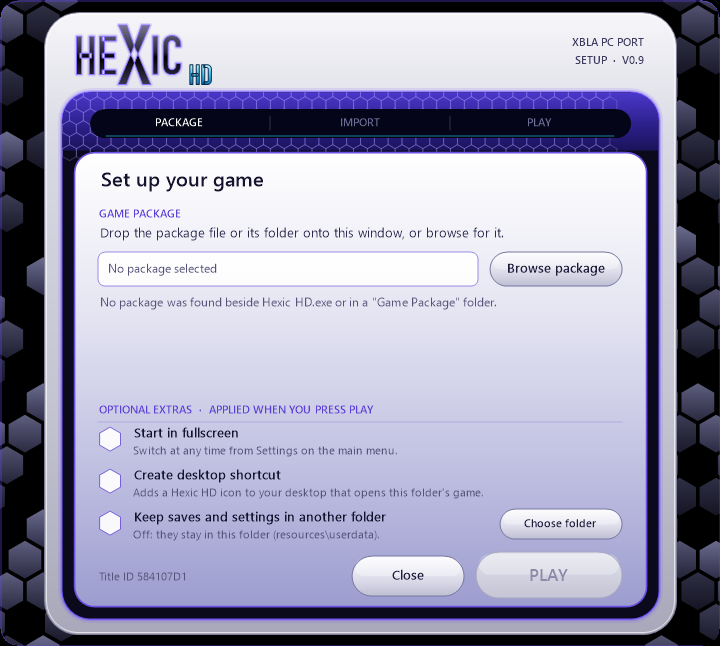
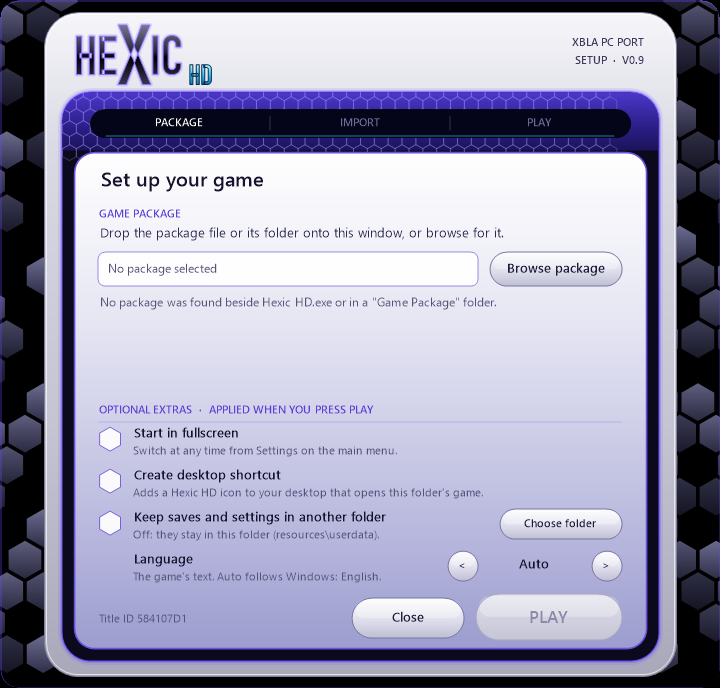
Setup: choose the language
A Language row (< and >) under the extras, the same list as Settings > Language, written to hexic_language in hexic_hd.toml on Play; Auto shows what Windows picks. Window 646 -> 688 px tall. Unattended: --language <code>. Setup screenshots retaken.

diff --git a/packaging/launcher/setup_window.cpp b/packaging/launcher/setup_window.cpp
@@ -36,24 +36,25 @@ namespace {
 using namespace Gdiplus;
 
 // ------------------------------------------------------------- layout --
-constexpr float kW = 720, kH = 646;
+constexpr float kW = 720, kH = 688;
 constexpr float kUiScale = 1.0f;
 
 struct Box {
   float x, y, w, h, r;
 };
-constexpr Box kBezel = {44, 12, 632, 622, 34};
-constexpr Box kCard = {62, 92, 596, 526, 28};
+constexpr Box kBezel = {44, 12, 632, 664, 34};
+constexpr Box kCard = {62, 92, 596, 568, 28};
 constexpr Box kPill = {90, 109, 540, 28, 14};
-constexpr Box kPanel = {74, 152, 572, 454, 20};
+constexpr Box kPanel = {74, 152, 572, 496, 20};
 constexpr Box kField = {98, 252, 380, 34, 7};
 constexpr Box kBar = {98, 356, 524, 12, 6};
 constexpr float kRowsY = 250, kRowPitch = 30;  // candidate rows when several packages are found
 constexpr int kMaxRows = 4;
 constexpr float kExtrasY = 402, kExtraFirst = 426, kExtraPitch = 42;
 constexpr float kSavesY = kExtraFirst + 2 * kExtraPitch;  // the saves-folder row, after the two extras
+constexpr float kLanguageY = kSavesY + kExtraPitch;      // the game's text language, last
 
-enum Control { kNone = -1, kBrowse, kLeft, kPlay, kExtra0, kExtra1, kSaves, kSavesBrowse, kRow0 };
+enum Control { kNone = -1, kBrowse, kLeft, kPlay, kExtra0, kExtra1, kSaves, kSavesBrowse, kLanguagePrev, kLanguageNext, kRow0 };
 
 enum class Mode { Idle, Choosing, Importing, Ready };
 
@@ -232,6 +233,8 @@ class SetupWindow {
   Extras want_, was_;
   // The saves folder (empty: resources\userdata), applied on Play like the extras.
   fs::path want_saves_, was_saves_;
+  // The game's text language (LanguageName() indices, 0 Auto), applied on Play.
+  int want_language_ = 0, was_language_ = 0;
   Control hover_ = kNone, pressed_ = kNone;
   bool tracking_ = false;
   std::atomic<bool> cancel_{false};
@@ -438,10 +441,12 @@ void SetupWindow::BuildBackdrop() {
 RectL SetupWindow::ControlRect(Control id) const {
   switch (id) {
     case kBrowse: return {490, 252, 132, 34};
-    case kLeft: return {352, 556, 112, 40};
-    case kPlay: return {476, 552, 146, 46};
+    case kLeft: return {352, 598, 112, 40};
+    case kPlay: return {476, 594, 146, 46};
     case kSaves: return {98, kSavesY - 6, 524, kExtraPitch - 2};
     case kSavesBrowse: return {500, kSavesY - 1, 122, 30};
+    case kLanguagePrev: return {448, kLanguageY - 1, 30, 30};
+    case kLanguageNext: return {592, kLanguageY - 1, 30, 30};
     case kExtra0:
     case kExtra1: return {98, kExtraFirst + (id - kExtra0) * kExtraPitch - 6, 524, kExtraPitch - 2};
     default: {
@@ -459,7 +464,9 @@ bool SetupWindow::Enabled(Control id) const {
     case kLeft: return !(mode_ == Mode::Importing && cancel_.load());
     case kPlay: return mode_ == Mode::Ready && installed_;
     case kSaves:
-    case kSavesBrowse: return mode_ != Mode::Importing;
+    case kSavesBrowse:
+    case kLanguagePrev:
+    case kLanguageNext: return mode_ != Mode::Importing;
     case kExtra0:
     case kExtra1: return true;
     default: return mode_ == Mode::Choosing && id - kRow0 < static_cast<int>(candidates_.size());
@@ -467,7 +474,7 @@ bool SetupWindow::Enabled(Control id) const {
 }
 
 Control SetupWindow::HitTest(float x, float y) const {
-  std::vector<Control> ids = {kBrowse, kLeft, kPlay, kExtra0, kExtra1, kSavesBrowse, kSaves};
+  std::vector<Control> ids = {kBrowse, kLeft, kPlay, kExtra0, kExtra1, kSavesBrowse, kSaves, kLanguagePrev, kLanguageNext};
   if (mode_ == Mode::Choosing) {
     for (int i = 0; i < static_cast<int>(candidates_.size()) && i < kMaxRows; ++i)
       ids.push_back(static_cast<Control>(kRow0 + i));
@@ -757,6 +764,19 @@ void SetupWindow::Paint(HDC dc) {
                 false, custom);
       PaintButton(g, kSavesBrowse, L"Choose folder", Enabled(kSavesBrowse), false, pill_.get());
     }
+    // Language: the game's own translations; < and > step through them.
+    {
+      const float y = kLanguageY;
+      PaintText(g, L"Language", row_title_.get(), pal::Ink, RectF(132, y - 2, 310, 20));
+      const std::wstring detail = want_language_ == 0
+          ? std::wstring(L"The game's text. Auto follows Windows: ") + LanguageName(AutoLanguageIndex()) + L"."
+          : std::wstring(L"The game's text. Change it any time in Settings.");
+      PaintText(g, detail, row_detail_.get(), pal::Muted, RectF(132, y + 17, 310, 18));
+      PaintButton(g, kLanguagePrev, L"<", Enabled(kLanguagePrev), false, pill_.get());
+      PaintButton(g, kLanguageNext, L">", Enabled(kLanguageNext), false, pill_.get());
+      PaintText(g, LanguageName(want_language_), row_title_.get(), pal::Ink, RectF(480, y + 3, 110, 20),
+                StringAlignmentCenter);
+    }
     }  // extras
 
     // A cleared flower: six jewels around a silver centre, once it is ready.
@@ -771,7 +791,7 @@ void SetupWindow::Paint(HDC dc) {
 
     // Footer and the two buttons.
     PaintText(g, update_mode_ ? std::wstring(L"This copy v") + kVersion : std::wstring(L"Title ID 584107D1"), foot_.get(),
-              pal::Muted, RectF(98, 570, 220, 18));
+              pal::Muted, RectF(98, 612, 220, 18));
     const wchar_t* left = mode_ == Mode::Importing ? (cancel_.load() ? L"Cancelling" : L"Cancel") : L"Close";
     PaintButton(g, kLeft, left, Enabled(kLeft), false, button_.get());
     PaintButton(g, kPlay, L"PLAY", Enabled(kPlay), true, play_.get());
@@ -798,6 +818,8 @@ void SetupWindow::Start() {
   want_ = was_;
   was_saves_ = p_.custom_userdata ? p_.userdata : fs::path();
   want_saves_ = was_saves_;
+  was_language_ = CurrentLanguage(p_);
+  want_language_ = was_language_;
   if (!options_.package.empty()) {
     SelectPath(options_.package);
     return;
@@ -1119,6 +1141,7 @@ void SetupWindow::Play() {
     return MessageBoxW(hwnd_, text.c_str(), L"Hexic HD", MB_YESNO | MB_ICONQUESTION | MB_DEFBUTTON2) == IDYES;
   });
   was_ = want_;
+  if (want_language_ != was_language_ && SetLanguage(p_, want_language_)) was_language_ = want_language_;
   if (!note.empty()) MessageBoxW(hwnd_, note.c_str(), L"Hexic HD", MB_OK | MB_ICONINFORMATION);
   std::wstring error;
   if (!LaunchGame(p_, options_.game_args, &error)) {
@@ -1161,6 +1184,8 @@ void SetupWindow::Click(Control id) {
       else want_saves_.clear();
       break;
     case kSavesBrowse: ChooseSavesFolder(); break;
+    case kLanguagePrev: want_language_ = (want_language_ + LanguageCount() - 1) % LanguageCount(); break;
+    case kLanguageNext: want_language_ = (want_language_ + 1) % LanguageCount(); break;
     default:
       if (id >= kRow0 && id - kRow0 < static_cast<int>(candidates_.size())) StartImport(candidates_[id - kRow0]);
       break;

diff --git a/packaging/launcher/main.cpp b/packaging/launcher/main.cpp
@@ -12,8 +12,9 @@
 //
 // For automated tests (no window):
 //   --setup --unattended [--package <file or folder>] [--extras fullscreen,shortcut]
-//           [--shortcut-folder <dir>] [--saves-folder <dir>]
-//   (--saves-folder: saves and settings in that folder instead of resources\userdata)
+//           [--shortcut-folder <dir>] [--saves-folder <dir>] [--language <code>]
+//   (--saves-folder: saves and settings in that folder instead of resources\userdata;
+//    --language: auto, en, de, es, fr, it, pt, ja, ko or zh, the game's text)
 //   Exit code 0 imported, 1 failed, 2 several packages found (pass --package), 3 none found.
 //
 // Any other arguments are passed on to the game.
@@ -37,7 +38,8 @@ namespace {
 
 using namespace hexic;
 
-int RunUnattended(Paths& p, const SetupOptions& options, const std::wstring& extras, const fs::path& saves_folder) {
+int RunUnattended(Paths& p, const SetupOptions& options, const std::wstring& extras, const fs::path& saves_folder,
+                  const std::string& language) {
   Log(L"Unattended setup");
   std::vector<Source> found;
   std::wstring why;
@@ -67,6 +69,13 @@ int RunUnattended(Paths& p, const SetupOptions& options, const std::wstring& ext
     Log(L"Unattended: " + message);
     if (!ok) return 1;
   }
+  if (!language.empty()) {
+    const int index = LanguageIndex(language);
+    if (index < 0 || !SetLanguage(p, index)) {
+      Log(L"Unattended: unknown language " + Widen(language));
+      return 1;
+    }
+  }
   return 0;
 }
 
@@ -78,6 +87,7 @@ int WINAPI wWinMain(HINSTANCE instance, HINSTANCE, PWSTR, int) {
   bool setup = false, unattended = false, update = false;
   std::wstring extras;
   fs::path saves_folder;
+  std::string language;
   SetupOptions options;
   for (int i = 1; i < argc; ++i) {
     const std::wstring arg = argv[i];
@@ -93,6 +103,8 @@ int WINAPI wWinMain(HINSTANCE instance, HINSTANCE, PWSTR, int) {
       extras = argv[++i];
     } else if (arg == L"--saves-folder" && i + 1 < argc) {
       saves_folder = argv[++i];
+    } else if (arg == L"--language" && i + 1 < argc) {
+      for (const wchar_t ch : std::wstring(argv[++i])) language += static_cast<char>(ch < 128 ? ch : '?');
     } else if (arg == L"--shortcut-folder" && i + 1 < argc) {
       options.shortcut_folder = argv[++i];
     } else {
@@ -168,7 +180,7 @@ int WINAPI wWinMain(HINSTANCE instance, HINSTANCE, PWSTR, int) {
   options.forced = installed;
   options.update = update && installed;  // an incomplete install needs setup first
   options.reason = options.update ? L"--update" : installed ? L"--setup" : L"missing " + missing;
-  const int code = unattended ? RunUnattended(p, options, extras, saves_folder) : RunSetupWindow(instance, p, options);
+  const int code = unattended ? RunUnattended(p, options, extras, saves_folder, language) : RunSetupWindow(instance, p, options);
   if (mutex) {
     ReleaseMutex(mutex);
     CloseHandle(mutex);

diff --git a/packaging/launcher/core.cpp b/packaging/launcher/core.cpp
@@ -933,6 +933,58 @@ bool WriteConfig(const Paths& p, const std::string& key, const std::string& valu
   return WriteAll(p.config, out);
 }
 
+// ------------------------------------------------------------- language --
+namespace {
+struct LanguageDef {
+  const char* code;
+  const wchar_t* name;
+};
+// Same order and names as the game's (src/hexic_language.h).
+constexpr LanguageDef kLanguageDefs[] = {
+    {"auto", L"Auto"},        {"en", L"English"},          {"de", L"Deutsch"},  {"es", L"Español"},
+    {"fr", L"Français"}, {"it", L"Italiano"},         {"pt", L"Português"}, {"ja", L"Japanese"},
+    {"ko", L"Korean"},        {"zh", L"Chinese"},
+};
+}  // namespace
+
+int LanguageCount() { return static_cast<int>(sizeof(kLanguageDefs) / sizeof(kLanguageDefs[0])); }
+const char* LanguageCode(int index) { return kLanguageDefs[index].code; }
+const wchar_t* LanguageName(int index) { return kLanguageDefs[index].name; }
+
+int LanguageIndex(const std::string& code) {
+  for (int i = 0; i < LanguageCount(); ++i) {
+    if (_stricmp(code.c_str(), kLanguageDefs[i].code) == 0) return i;
+  }
+  return -1;
+}
+
+int AutoLanguageIndex() {
+  switch (PRIMARYLANGID(GetUserDefaultUILanguage())) {
+    case LANG_GERMAN: return LanguageIndex("de");
+    case LANG_SPANISH: return LanguageIndex("es");
+    case LANG_FRENCH: return LanguageIndex("fr");
+    case LANG_ITALIAN: return LanguageIndex("it");
+    case LANG_PORTUGUESE: return LanguageIndex("pt");
+    case LANG_JAPANESE: return LanguageIndex("ja");
+    case LANG_KOREAN: return LanguageIndex("ko");
+    case LANG_CHINESE: return LanguageIndex("zh");
+    default: return LanguageIndex("en");
+  }
+}
+
+int CurrentLanguage(const Paths& p) {
+  std::string value;
+  if (!ReadConfig(p, "hexic_language", &value)) return 0;
+  const int index = LanguageIndex(value);
+  return index < 0 ? 0 : index;
+}
+
+bool SetLanguage(const Paths& p, int index) {
+  if (index < 0 || index >= LanguageCount()) return false;
+  Log(L"Language: " + Widen(LanguageCode(index)));
+  return WriteConfig(p, "hexic_language", std::string("\"") + LanguageCode(index) + "\"");
+}
+
 void EnsureSettings(const Paths& p) {
   std::error_code ec;
   fs::create_directories(p.userdata, ec);

diff --git a/packaging/launcher/launcher.h b/packaging/launcher/launcher.h
@@ -123,6 +123,17 @@ bool WriteConfig(const Paths& p, const std::string& key, const std::string& valu
 // Writes the default hexic_hd.toml when there is none.
 void EnsureSettings(const Paths& p);
 
+// The game's text language: hexic_language in hexic_hd.toml, the same list as
+// the game's Settings > Language (src/hexic_language.h). Index 0 is Auto (the
+// Windows display language); a missing or unknown value reads as Auto.
+int LanguageCount();
+const char* LanguageCode(int index);
+const wchar_t* LanguageName(int index);
+int LanguageIndex(const std::string& code);  // -1 if unknown
+int AutoLanguageIndex();                     // what Auto picks on this PC
+int CurrentLanguage(const Paths& p);
+bool SetLanguage(const Paths& p, int index);
+
 // --------------------------------------------------------------- extras --
 struct Extras {
   bool fullscreen = false;

diff --git a/README.md b/README.md
@@ -30,8 +30,8 @@ Like the recomp and want to support future projects? You can tip me on
 3. Select your Hexic HD XBLA package using **Browse package**, drag it onto the window, or
    place it alongside the executable (or in a `Game Package` folder) for automatic
    detection.
-4. Choose your options: fullscreen, desktop shortcut, and an optional folder of your own
-   for saves and settings.
+4. Choose your options: fullscreen, desktop shortcut, an optional folder of your own for
+   saves and settings, and the language.
 5. Click **Play**.
 
 ![Setup window](docs/screenshots/02-setup-ready.png)
